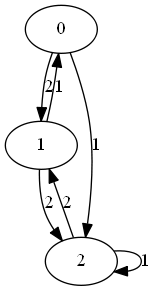
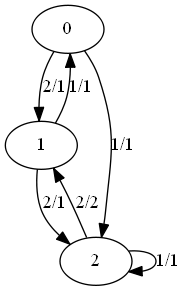
Добавлена первая рабочая версия программы

diff --git a/GraphMinimisation/GraphMinimisation/GraphMinimisation.cpp b/GraphMinimisation/GraphMinimisation/GraphMinimisation.cpp
@@ -338,6 +338,22 @@ vector<double> CalculateWeights(vector<pair<string, State>> const &graph)
 	return weights;
 }
 
+vector<string> CalculateMealeyWeights(vector<pair<string, State>> const &graph)
+{
+	vector<string> weights;
+
+	for (auto it = graph.begin(); it != graph.end(); it++)
+	{
+		for (size_t i = 0; i < it->second.transitions.size(); i++)
+		{
+			string weight = to_string(i + 1) + "/" + it->second.sygnals[i];
+			weights.push_back(weight);
+		}
+	}
+
+	return weights;
+}
+
 void DrawMooreGraph(ofstream &output, vector<pair<string, State>> const &graphMatrix)
 {
 	using Edge = std::pair<int, int>;
@@ -355,16 +371,20 @@ void DrawMooreGraph(ofstream &output, vector<pair<string, State>> const &graphMa
 	Graph graph(edges.begin(), edges.end(), weights.begin(),
 		VERTEX_COUNT);
 
-	//using VertexesNames = boost::property_map<Graph, boost::vertex_name_t>::type;
-	//VertexesNames vertexesNames = boost::get(boost::vertex_name, graph);
+	using VertexesNames = boost::property_map<Graph, boost::vertex_name_t>::type;
+	VertexesNames vertexesNames = boost::get(boost::vertex_name, graph);
+	
+	for (size_t i = 0; i < graphMatrix.size(); i++)
+	{
+		vertexesNames[i] = (to_string(i) + "/" + graphMatrix[i].first);
+	}
 
 	boost::dynamic_properties dp;
 	dp.property("weight", boost::get(boost::edge_weight,
 		graph));
 	dp.property("label", boost::get(boost::edge_weight,
 		graph));
-	//dp.property("node_id", vertexesNames);
-	dp.property("node_id", boost::get(boost::vertex_index, graph));
+	dp.property("node_id", vertexesNames);
 
 	boost::write_graphviz_dp(output, graph, dp);
 }
@@ -604,25 +624,21 @@ void DrawMealeyGraph(ofstream &output, vector<pair<string, State>> const &graphM
 		boost::vecS,
 		boost::vecS, boost::directedS,
 		boost::property<boost::vertex_name_t, std::string>,
-		boost::property<boost::edge_weight_t, double>
+		boost::property<boost::edge_weight_t, string>
 	>;
 
 	const size_t VERTEX_COUNT = graphMatrix.size();
 	vector<Edge> edges = FindEdges(graphMatrix);
-	std::vector<double> weights = CalculateWeights(graphMatrix);
+	std::vector<string> weights = CalculateMealeyWeights(graphMatrix);
 
 	Graph graph(edges.begin(), edges.end(), weights.begin(),
 		VERTEX_COUNT);
-
-	//using VertexesNames = boost::property_map<Graph, boost::vertex_name_t>::type;
-	//VertexesNames vertexesNames = boost::get(boost::vertex_name, graph);
 
 	boost::dynamic_properties dp;
 	dp.property("weight", boost::get(boost::edge_weight,
 		graph));
 	dp.property("label", boost::get(boost::edge_weight,
 		graph));
-	//dp.property("node_id", vertexesNames);
 	dp.property("node_id", boost::get(boost::vertex_index, graph));
 
 	boost::write_graphviz_dp(output, graph, dp);
